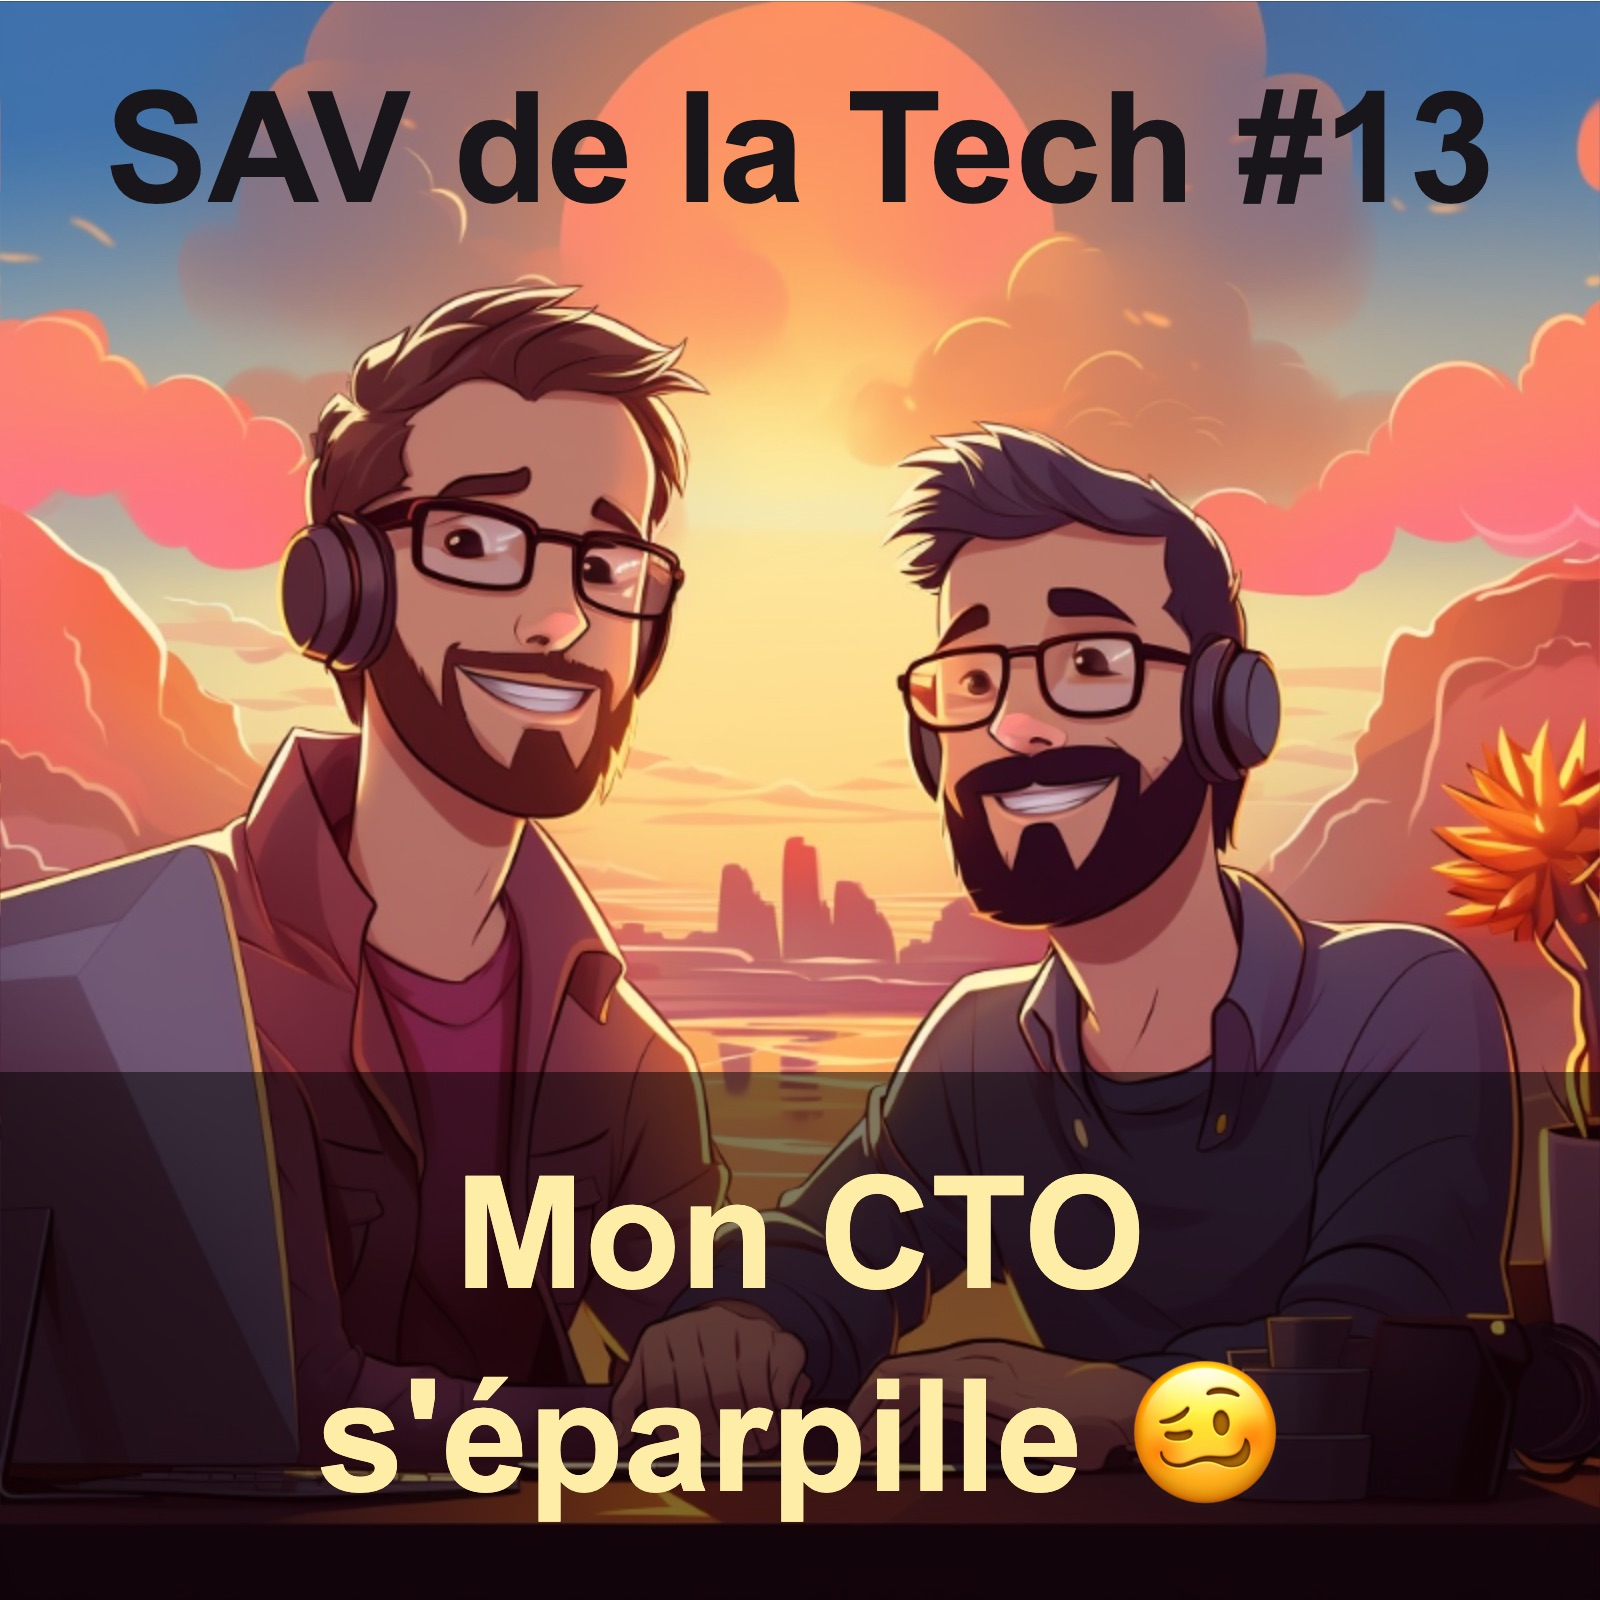
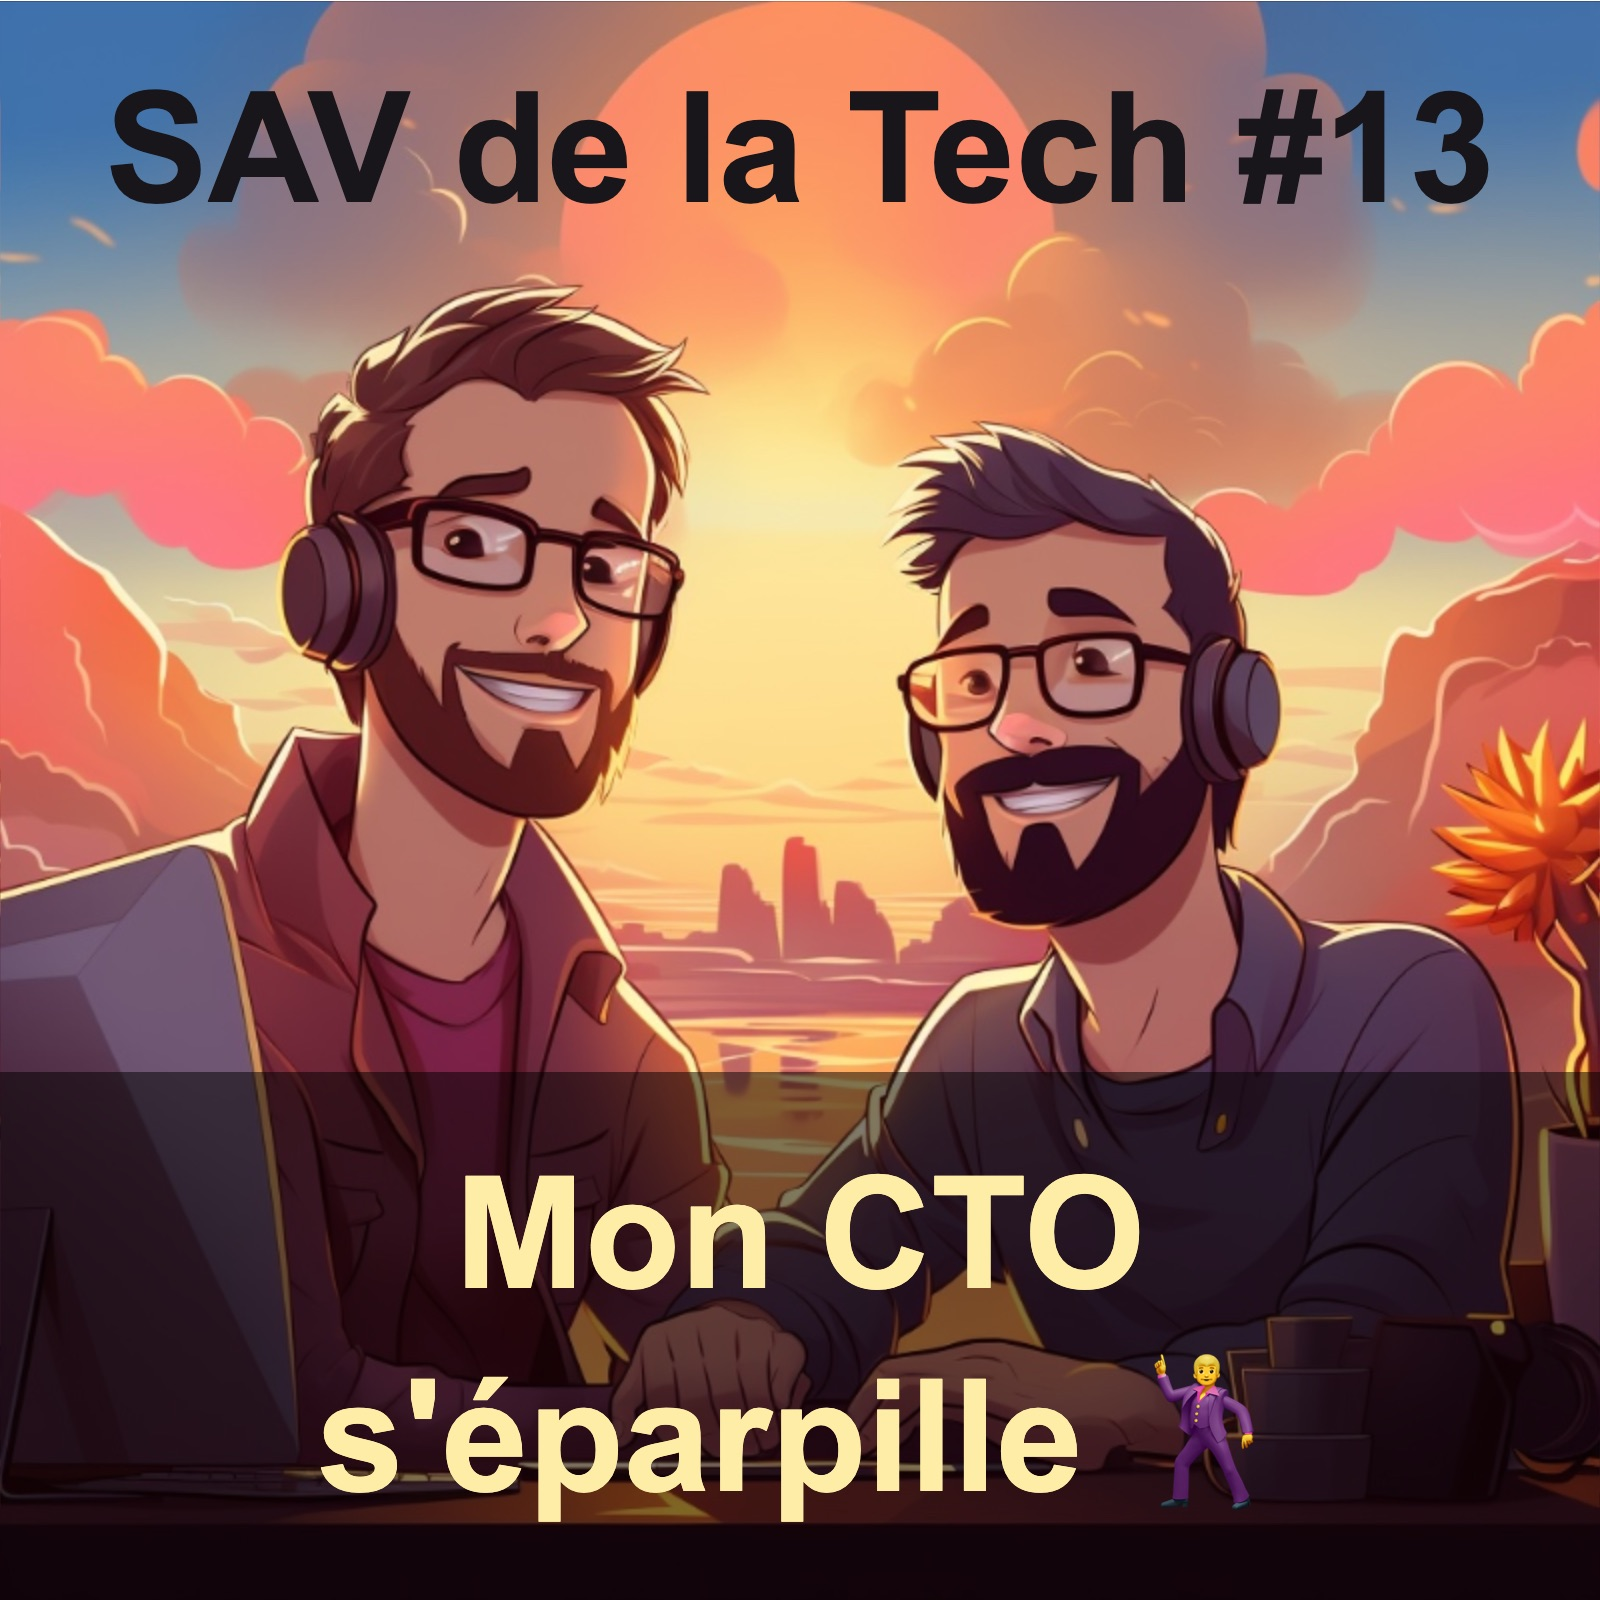
E13

Changed region(s): [[0.6875, 0.8438, 0.8125, 0.9375]]

diff --git a/_posts/2024-04-08-13-mon-cto-s-eparpille.html b/_posts/2024-04-08-13-mon-cto-s-eparpille.html
@@ -1,0 +1,19 @@
+---
+layout: post
+title: "13. Mon CTO s'éparpille \U0001F57A"
+tag: rss
+---
+
+<audio controls="">
+  <source src="https://anchor.fm/s/e7a67d1c/podcast/play/85144830/https%3A%2F%2Fd3ctxlq1ktw2nl.cloudfront.net%2Fstaging%2F2024-3-8%2F7f19cd42-352f-b83a-70b4-e1dfa38c2e49.mp3" type="audio/mpeg">
+  Your browser does not support the audio element.
+</audio>
+<p>Cette semaine, dans le SAV de la Tech, on répond à la question d&#39;un auditeur anonyme:</p>
+<p>&quot;Hello,</p>
+<p>Je suis dev et je viens d&#39;arriver il y a quelques semaines dans une startup qui existe depuis 2 ans. Durant les Daily, mon CTO a tendance à s&#39;éparpiller et à sauter d&#39;un sujet à l&#39;autre, si bien que parfois on en oublie de lui communiquer certaines infos importantes (bug sur lequel on a pas pu avancer, feature qu&#39;on a pas bien comprise).</p>
+<p>Hier l&#39;autre dev n&#39;a même pas eu le temps de faire sa propre daily. Je n&#39;ose pas lui demander d&#39;aller droit au but ou de lui proposer de voir certains points après le call (histoire de ne pas retarder l&#39;autre dev). Il est vrai aussi que cet éparpillage m&#39;aide à découvrir d&#39;autres aspects de notre tech, donc ça a quand même de l&#39;intérêt.</p>
+<p>Comment puis-je lui demander de ne pas s&#39;éparpiller, et d&#39;aller droit au but, tout en conservant la super bonne entente qui règne entre nous tous ?</p>
+<p>Merci pour votre super travail, c&#39;est top !&quot;</p>
+<p><br></p>
+<p>Épisode enregistré en Mars 2024.</p>
+<p>Crédits musique: &quot;Guess Again&quot;, provided by https://slip.stream</p>
